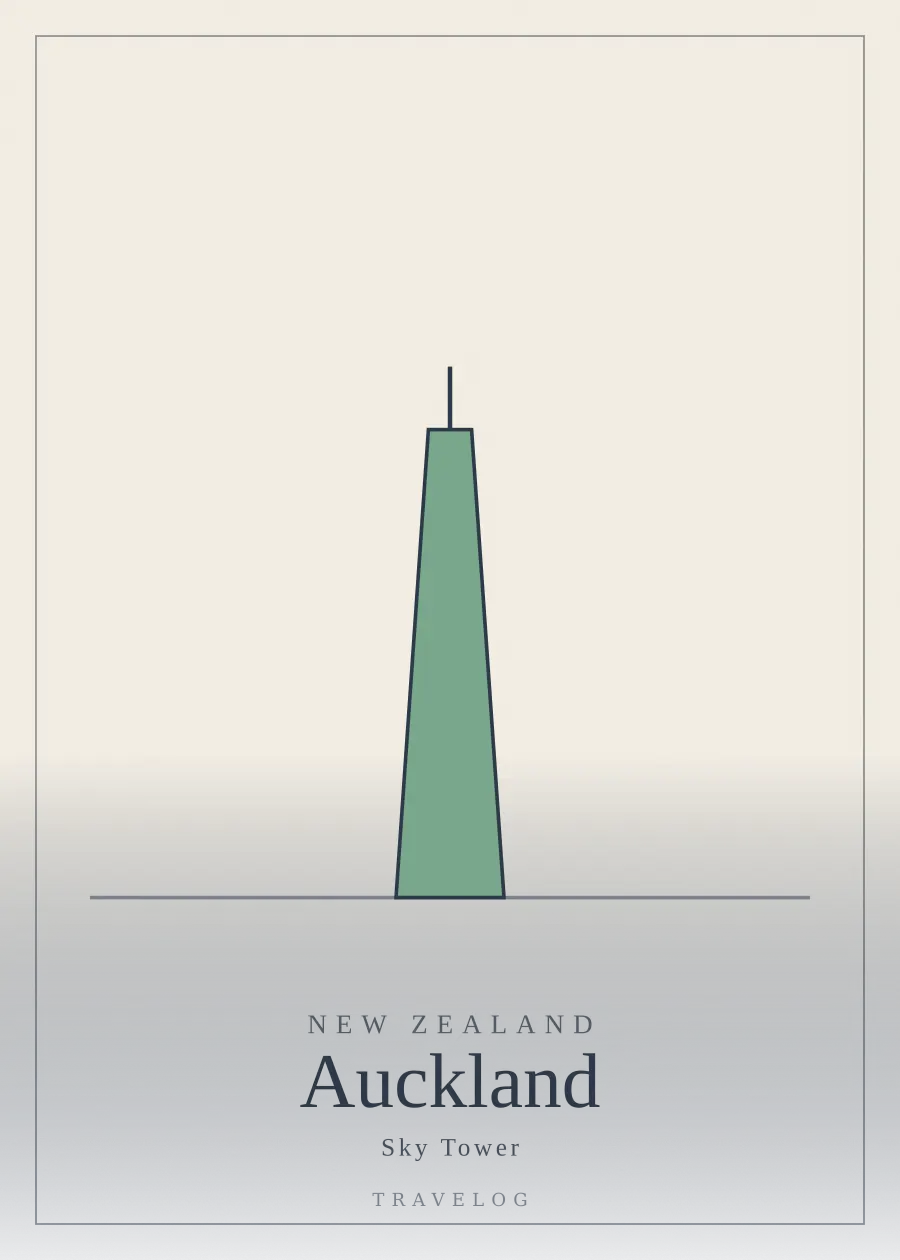
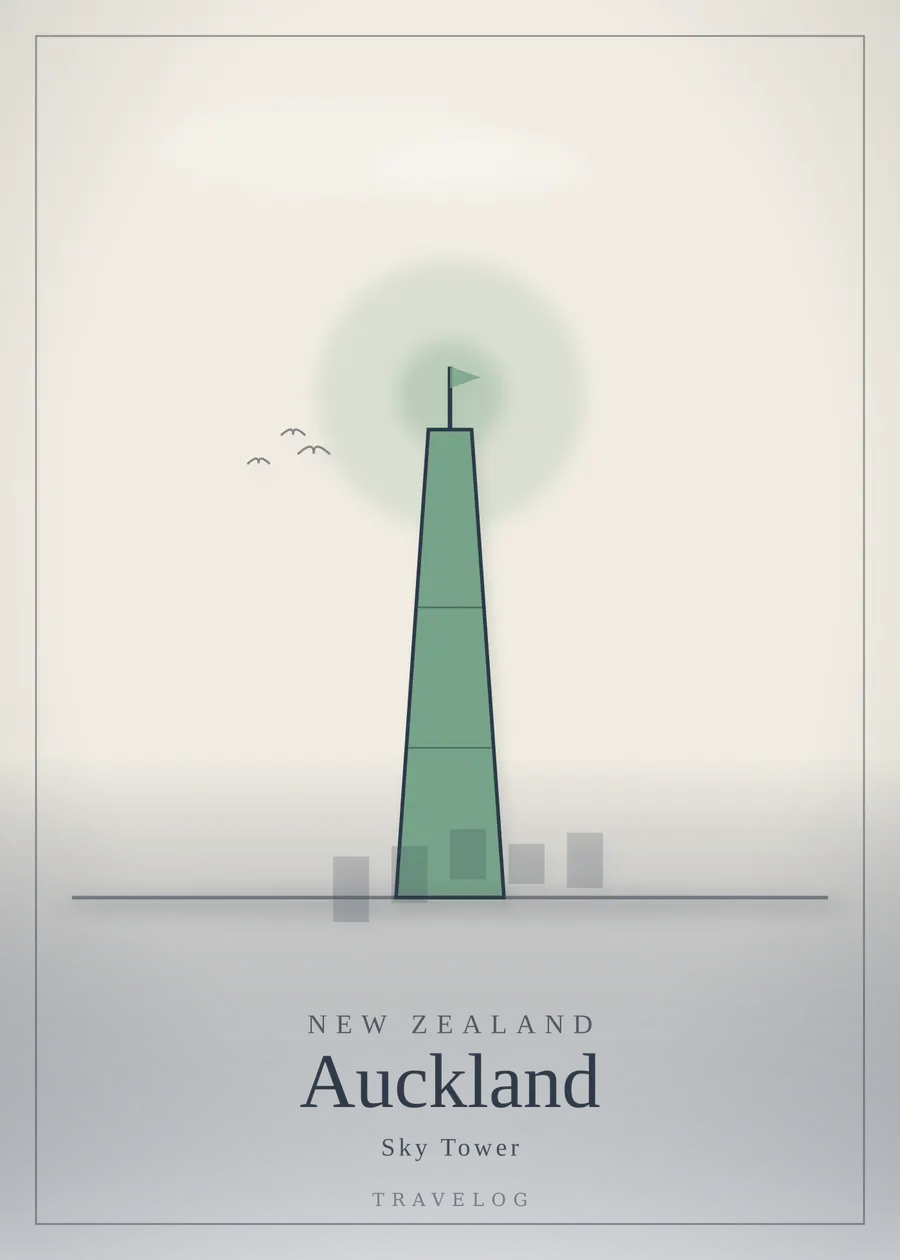
Improve placeholder poster art: richer illustration, faster generation
Upgrades the procedural poster art from flat geometric shapes to a
proper editorial illustration treatment — sky glow/clouds, birds,
water ripples, ground shadow, a single watercolor "bleed" pass behind
the crisp linework, and per-motif secondary detail (pedestrians,
lanterns, palm accents, window lighting, etc.) instead of generic bars.

Also fixes a real performance bug: re-rasterizing the same blurred SVG
a second time at 4000px for the "original" file made per-poster
generation take ~50s+ (the Gaussian blur filters scale non-linearly
with rasterization density). Now the vector art is rasterized once at
a moderate size and the high-resolution "original" is a fast Lanczos
upscale of that raster — ~4s/poster instead of ~50s+, with no visible
quality loss for this illustration style.

(AI image generation was attempted for a higher-fidelity upgrade, but
the sandbox's network policy blocks the generation service's asset
CDN, so the generated files couldn't be pulled into the repo — this
commit is the achievable alternative within that constraint.)

diff --git a/scripts/lib/svg-poster.ts b/scripts/lib/svg-poster.ts
@@ -22,21 +22,69 @@ function hashSeed(value: string): number {
     return h;
 }
 
+function sky(rand: () => number, accent: string, sunY: number): string {
+    let clouds = '';
+    for (let i = 0; i < 2; i++) {
+        const cx = 220 + rand() * 560;
+        const cy = 140 + rand() * 260;
+        const w = 90 + rand() * 110;
+        clouds += `<ellipse cx="${cx}" cy="${cy}" rx="${w}" ry="${w * 0.28}" fill="#ffffff" opacity="${0.18 + rand() * 0.15}" filter="url(#soften)" />`;
+    }
+    return `
+        <circle cx="${WIDTH / 2}" cy="${sunY}" r="150" fill="${accent}" opacity="0.16" filter="url(#soften)" />
+        <circle cx="${WIDTH / 2}" cy="${sunY}" r="60" fill="${accent}" opacity="0.28" filter="url(#soften)" />
+        ${clouds}
+    `;
+}
+
+function birds(rand: () => number, ink: string, count: number, top: number, bottom: number): string {
+    let out = '';
+    for (let i = 0; i < count; i++) {
+        const x = 220 + rand() * 560;
+        const y = top + rand() * (bottom - top);
+        const s = 10 + rand() * 8;
+        out += `<path d="M ${x - s} ${y} Q ${x} ${y - s * 0.9} ${x} ${y} Q ${x} ${y - s * 0.9} ${x + s} ${y}" fill="none" stroke="${ink}" stroke-width="2.5" opacity="0.55" stroke-linecap="round" />`;
+    }
+    return out;
+}
+
+function groundShadow(baseY: number, ink: string): string {
+    return `<ellipse cx="${WIDTH / 2}" cy="${baseY + 6}" rx="440" ry="16" fill="${ink}" opacity="0.12" filter="url(#soften)" />`;
+}
+
 function motifPaths(motif: PosterRecord['motif'], rand: () => number, ink: string, accent: string): string {
     const cx = WIDTH / 2;
     const baseY = 980 + rand() * 40;
+    let out = '';
 
     switch (motif) {
         case 'bridge': {
             const spanY = baseY - 260;
             const towerH = 300;
-            return `
-                <path d="M ${cx - 340} ${baseY} Q ${cx} ${spanY} ${cx + 340} ${baseY}" fill="none" stroke="${accent}" stroke-width="10" />
+            const mainArc = `M ${cx - 340} ${baseY} Q ${cx} ${spanY} ${cx + 340} ${baseY}`;
+            out += sky(rand, accent, baseY - 420);
+            out += `
+                <path d="M ${cx - 420} ${baseY + 30} Q ${cx - 200} ${baseY + 10} ${cx} ${baseY + 30} T ${cx + 420} ${baseY + 30}" fill="none" stroke="${ink}" stroke-width="2.5" opacity="0.3" />
+                <path d="M ${cx - 420} ${baseY + 55} Q ${cx - 200} ${baseY + 35} ${cx} ${baseY + 55} T ${cx + 420} ${baseY + 55}" fill="none" stroke="${ink}" stroke-width="2" opacity="0.2" />
+                <path d="${mainArc}" fill="none" stroke="${accent}" stroke-width="10" />
                 <path d="M ${cx - 260} ${baseY} Q ${cx} ${spanY + 90} ${cx + 260} ${baseY}" fill="none" stroke="${ink}" stroke-width="4" opacity="0.6" />
+                ${Array.from({ length: 9 })
+                    .map((_, i) => {
+                        const t = (i + 1) / 10;
+                        const x = cx - 340 + t * 680;
+                        const archY = spanY + (baseY - spanY) * (1 - Math.sin(Math.PI * t));
+                        return `<line x1="${x}" y1="${archY}" x2="${x}" y2="${baseY}" stroke="${ink}" stroke-width="1.5" opacity="0.35" />`;
+                    })
+                    .join('')}
                 <rect x="${cx - 180}" y="${baseY - towerH}" width="18" height="${towerH}" fill="${ink}" />
                 <rect x="${cx + 162}" y="${baseY - towerH}" width="18" height="${towerH}" fill="${ink}" />
-                <line x1="${cx - 340}" y1="${baseY}" x2="${cx + 340}" y2="${baseY}" stroke="${ink}" stroke-width="6" />
+                <path d="M ${cx - 180} ${baseY - towerH} L ${cx - 171} ${baseY - towerH - 26} L ${cx - 162} ${baseY - towerH}" fill="${ink}" opacity="0.8" />
+                <path d="M ${cx + 162} ${baseY - towerH} L ${cx + 171} ${baseY - towerH - 26} L ${cx + 180} ${baseY - towerH}" fill="${ink}" opacity="0.8" />
+                <line x1="${cx - 420}" y1="${baseY}" x2="${cx + 420}" y2="${baseY}" stroke="${ink}" stroke-width="6" />
             `;
+            out += birds(rand, ink, 4, baseY - 500, baseY - 380);
+            out += groundShadow(baseY, ink);
+            break;
         }
         case 'mountain': {
             const peaks = [0.55, 0.9, 0.68, 1, 0.5];
@@ -46,21 +94,36 @@ function motifPaths(motif: PosterRecord['motif'], rand: () => number, ink: strin
                 d += ` L ${x} ${baseY - 360 * p}`;
             });
             d += ` L ${cx + 400} ${baseY}`;
-            return `
+            out += sky(rand, accent, baseY - 480);
+            out += `
                 <path d="${d} Z" fill="${accent}" opacity="0.85" />
                 <path d="${d}" fill="none" stroke="${ink}" stroke-width="5" />
+                <path d="M ${cx - 210} ${baseY - 220} L ${cx - 170} ${baseY - 260} L ${cx - 130} ${baseY - 220}" fill="none" stroke="${ink}" stroke-width="3" opacity="0.5" />
+                <path d="M ${cx + 40} ${baseY - 330} L ${cx + 90} ${baseY - 380} L ${cx + 140} ${baseY - 330}" fill="none" stroke="${ink}" stroke-width="3" opacity="0.5" />
             `;
+            out += birds(rand, ink, 3, baseY - 460, baseY - 380);
+            out += groundShadow(baseY, ink);
+            break;
         }
         case 'tower': {
             const h = 520;
-            return `
+            out += sky(rand, accent, baseY - h - 40);
+            out += `
                 <polygon points="${cx - 60},${baseY} ${cx - 24},${baseY - h} ${cx + 24},${baseY - h} ${cx + 60},${baseY}" fill="${accent}" />
                 <polygon points="${cx - 60},${baseY} ${cx - 24},${baseY - h} ${cx + 24},${baseY - h} ${cx + 60},${baseY}" fill="none" stroke="${ink}" stroke-width="4" />
+                <line x1="${cx - 46}" y1="${baseY - h * 0.32}" x2="${cx + 46}" y2="${baseY - h * 0.32}" stroke="${ink}" stroke-width="2" opacity="0.5" />
+                <line x1="${cx - 36}" y1="${baseY - h * 0.62}" x2="${cx + 36}" y2="${baseY - h * 0.62}" stroke="${ink}" stroke-width="2" opacity="0.5" />
                 <line x1="${cx}" y1="${baseY - h}" x2="${cx}" y2="${baseY - h - 70}" stroke="${ink}" stroke-width="5" />
-                <line x1="${cx - 400}" y1="${baseY}" x2="${cx + 400}" y2="${baseY}" stroke="${ink}" stroke-width="4" opacity="0.5" />
+                <path d="M ${cx} ${baseY - h - 70} L ${cx + 34} ${baseY - h - 58} L ${cx} ${baseY - h - 46} Z" fill="${accent}" opacity="0.8" />
+                ${Array.from({ length: 5 }).map((_, i) => `<rect x="${cx - 130 + i * 65}" y="${baseY - 40 - rand() * 40}" width="40" height="${40 + rand() * 40}" fill="${ink}" opacity="0.18" />`).join('')}
+                <line x1="${cx - 420}" y1="${baseY}" x2="${cx + 420}" y2="${baseY}" stroke="${ink}" stroke-width="4" opacity="0.5" />
             `;
+            out += birds(rand, ink, 3, baseY - h - 30, baseY - h + 60);
+            out += groundShadow(baseY, ink);
+            break;
         }
         case 'shrine': {
+            out += sky(rand, accent, baseY - 460);
             let gates = '';
             for (let i = 0; i < 4; i++) {
                 const y = baseY - i * 90;
@@ -68,38 +131,76 @@ function motifPaths(motif: PosterRecord['motif'], rand: () => number, ink: strin
                 gates += `
                     <line x1="${cx - w / 2}" y1="${y}" x2="${cx - w / 2}" y2="${y - 130}" stroke="${accent}" stroke-width="14" />
                     <line x1="${cx + w / 2}" y1="${y}" x2="${cx + w / 2}" y2="${y - 130}" stroke="${accent}" stroke-width="14" />
-                    <line x1="${cx - w / 2 - 14}" y1="${y - 130}" x2="${cx + w / 2 + 14}" y2="${y - 130}" stroke="${ink}" stroke-width="10" />
+                    <line x1="${cx - w / 2 - 18}" y1="${y - 130}" x2="${cx + w / 2 + 18}" y2="${y - 130}" stroke="${ink}" stroke-width="11" />
+                    <line x1="${cx - w / 2 - 10}" y1="${y - 110}" x2="${cx + w / 2 + 10}" y2="${y - 110}" stroke="${ink}" stroke-width="6" />
                 `;
             }
-            return gates;
+            out += gates;
+            for (const side of [-1, 1]) {
+                const tx = cx + side * 440;
+                out += `<path d="M ${tx} ${baseY} L ${tx - 30} ${baseY - 260} L ${tx + 40} ${baseY - 300} L ${tx + 10} ${baseY - 130} Z" fill="${ink}" opacity="0.22" />`;
+            }
+            out += groundShadow(baseY, ink);
+            break;
         }
         case 'dome': {
-            return `
-                <path d="M ${cx - 260} ${baseY} A 260 260 0 0 1 ${cx + 260} ${baseY}" fill="${accent}" />
-                <path d="M ${cx - 260} ${baseY} A 260 260 0 0 1 ${cx + 260} ${baseY}" fill="none" stroke="${ink}" stroke-width="5" />
+            out += sky(rand, accent, baseY - 380);
+            const domeArc = `M ${cx - 260} ${baseY} A 260 260 0 0 1 ${cx + 260} ${baseY}`;
+            out += `
+                <path d="${domeArc}" fill="${accent}" />
+                <path d="${domeArc}" fill="none" stroke="${ink}" stroke-width="5" />
+                <path d="M ${cx - 180} ${baseY} A 180 180 0 0 1 ${cx + 180} ${baseY}" fill="none" stroke="${ink}" stroke-width="2" opacity="0.4" />
+                <line x1="${cx}" y1="${baseY - 260}" x2="${cx}" y2="${baseY - 300}" stroke="${ink}" stroke-width="4" />
+                <rect x="${cx - 330}" y="${baseY - 90}" width="70" height="90" fill="${ink}" opacity="0.2" />
+                <rect x="${cx + 260}" y="${baseY - 120}" width="70" height="120" fill="${ink}" opacity="0.2" />
                 <line x1="${cx - 300}" y1="${baseY}" x2="${cx + 300}" y2="${baseY}" stroke="${ink}" stroke-width="6" />
             `;
+            out += birds(rand, ink, 3, baseY - 400, baseY - 320);
+            out += groundShadow(baseY, ink);
+            break;
         }
         case 'canal': {
+            out += sky(rand, accent, baseY - 420);
             let d = `M ${cx - 420} ${baseY}`;
             for (let i = 1; i <= 6; i++) {
                 d += ` Q ${cx - 420 + i * 140 - 70} ${baseY + (i % 2 === 0 ? 40 : -40)} ${cx - 420 + i * 140} ${baseY}`;
             }
-            return `
-                <path d="${d}" fill="none" stroke="${accent}" stroke-width="10" />
+            let d2 = `M ${cx - 420} ${baseY + 26}`;
+            for (let i = 1; i <= 6; i++) {
+                d2 += ` Q ${cx - 420 + i * 140 - 70} ${baseY + 26 + (i % 2 === 0 ? 30 : -30)} ${cx - 420 + i * 140} ${baseY + 26}`;
+            }
+            out += `
                 <rect x="${cx - 380}" y="${baseY - 220}" width="140" height="220" fill="${ink}" opacity="0.7" />
                 <rect x="${cx - 200}" y="${baseY - 300}" width="120" height="300" fill="${ink}" opacity="0.55" />
                 <rect x="${cx + 60}" y="${baseY - 260}" width="150" height="260" fill="${ink}" opacity="0.65" />
+                <rect x="${cx - 380}" y="${baseY - 220}" width="140" height="16" fill="${accent}" opacity="0.7" />
+                <rect x="${cx - 200}" y="${baseY - 300}" width="120" height="16" fill="${accent}" opacity="0.6" />
+                <rect x="${cx + 60}" y="${baseY - 260}" width="150" height="16" fill="${accent}" opacity="0.6" />
+                <path d="${d}" fill="none" stroke="${accent}" stroke-width="10" />
+                <path d="${d2}" fill="none" stroke="${ink}" stroke-width="2" opacity="0.25" />
+                <path d="M ${cx - 30} ${baseY + 6} Q ${cx} ${baseY - 14} ${cx + 60} ${baseY + 4} L ${cx + 50} ${baseY + 14} Q ${cx + 10} ${baseY + 4} ${cx - 20} ${baseY + 14} Z" fill="${ink}" opacity="0.5" />
             `;
+            out += groundShadow(baseY, ink);
+            break;
         }
         case 'pyramid': {
-            return `
-                <polygon points="${cx - 280},${baseY} ${cx},${baseY - 380} ${cx + 280},${baseY}" fill="${accent}" />
+            out += sky(rand, accent, baseY - 420);
+            const p1 = `<polygon points="${cx - 280},${baseY} ${cx},${baseY - 380} ${cx + 280},${baseY}" fill="${accent}" />`;
+            out += `
+                ${p1}
                 <polygon points="${cx - 280},${baseY} ${cx},${baseY - 380} ${cx + 280},${baseY}" fill="none" stroke="${ink}" stroke-width="5" />
+                <line x1="${cx}" y1="${baseY - 380}" x2="${cx - 60}" y2="${baseY}" stroke="${ink}" stroke-width="2" opacity="0.35" />
                 <polygon points="${cx + 320},${baseY} ${cx + 420},${baseY - 160} ${cx + 520},${baseY}" fill="${accent}" opacity="0.7" />
+                <polygon points="${cx + 320},${baseY} ${cx + 420},${baseY - 160} ${cx + 520},${baseY}" fill="none" stroke="${ink}" stroke-width="3" opacity="0.5" />
+                <path d="M ${cx - 450} ${baseY} Q ${cx - 470} ${baseY - 60} ${cx - 430} ${baseY - 130}" fill="none" stroke="${ink}" stroke-width="5" opacity="0.55" stroke-linecap="round" />
+                <path d="M ${cx - 430} ${baseY - 30} L ${cx - 460} ${baseY - 70}" stroke="${ink}" stroke-width="4" opacity="0.5" stroke-linecap="round" />
+                <path d="M ${cx - 430} ${baseY - 55} L ${cx - 400} ${baseY - 95}" stroke="${ink}" stroke-width="4" opacity="0.5" stroke-linecap="round" />
             `;
+            out += groundShadow(baseY, ink);
+            break;
         }
         case 'cliff': {
+            out += sky(rand, accent, baseY - 380);
             let d = `M ${cx - 420} ${baseY}`;
             for (let i = 0; i < 6; i++) {
                 const x = cx - 420 + i * 140 + rand() * 30;
@@ -107,36 +208,66 @@ function motifPaths(motif: PosterRecord['motif'], rand: () => number, ink: strin
                 d += ` L ${x} ${y}`;
             }
             d += ` L ${cx + 420} ${baseY} Z`;
-            return `<path d="${d}" fill="${accent}" opacity="0.85" /><path d="${d}" fill="none" stroke="${ink}" stroke-width="4" />`;
+            out += `<path d="${d}" fill="${accent}" opacity="0.85" /><path d="${d}" fill="none" stroke="${ink}" stroke-width="4" />`;
+            for (let i = 0; i < 4; i++) {
+                const bx = cx - 260 + i * 170 + rand() * 30;
+                out += `<rect x="${bx}" y="${baseY - 160 - rand() * 60}" width="18" height="${140 + rand() * 60}" fill="${ink}" opacity="0.28" /><polygon points="${bx - 6},${baseY - 160 - rand() * 60} ${bx + 9},${baseY - 210} ${bx + 24},${baseY - 160}" fill="${accent}" opacity="0.4" />`;
+            }
+            out += birds(rand, ink, 3, baseY - 400, baseY - 320);
+            out += groundShadow(baseY, ink);
+            break;
         }
         case 'skyline': {
+            out += sky(rand, accent, baseY - 440);
             let bars = '';
             let x = cx - 420;
             while (x < cx + 420) {
                 const w = 60 + rand() * 60;
                 const h = 160 + rand() * 320;
-                bars += `<rect x="${x}" y="${baseY - h}" width="${w - 8}" height="${h}" fill="${ink}" opacity="${0.5 + rand() * 0.3}" />`;
+                const winRows = Math.floor(h / 34);
+                let windows = '';
+                for (let r = 0; r < winRows; r++) {
+                    if (rand() > 0.4) windows += `<rect x="${x + 8}" y="${baseY - h + 10 + r * 34}" width="${w - 24}" height="14" fill="${accent}" opacity="${0.35 + rand() * 0.3}" />`;
+                }
+                bars += `<rect x="${x}" y="${baseY - h}" width="${w - 8}" height="${h}" fill="${ink}" opacity="${0.55 + rand() * 0.25}" />${windows}`;
                 x += w;
             }
-            return bars;
+            out += bars;
+            out += birds(rand, ink, 3, baseY - 460, baseY - 380);
+            out += groundShadow(baseY, ink);
+            break;
         }
         case 'statue': {
-            return `
+            out += sky(rand, accent, baseY - 420);
+            out += `
+                <path d="M ${cx - 300} ${baseY} Q ${cx - 150} ${baseY - 50} ${cx} ${baseY - 20} Q ${cx + 150} ${baseY - 50} ${cx + 300} ${baseY}" fill="${accent}" opacity="0.35" />
                 <rect x="${cx - 14}" y="${baseY - 340}" width="28" height="240" fill="${ink}" />
                 <line x1="${cx - 14}" y1="${baseY - 300}" x2="${cx - 180}" y2="${baseY - 220}" stroke="${ink}" stroke-width="16" stroke-linecap="round" />
                 <line x1="${cx + 14}" y1="${baseY - 300}" x2="${cx + 180}" y2="${baseY - 220}" stroke="${ink}" stroke-width="16" stroke-linecap="round" />
                 <circle cx="${cx}" cy="${baseY - 370}" r="30" fill="${ink}" />
                 <path d="M ${cx - 260} ${baseY} Q ${cx} ${baseY - 90} ${cx + 260} ${baseY}" fill="${accent}" opacity="0.6" />
             `;
+            out += birds(rand, ink, 3, baseY - 440, baseY - 360);
+            out += groundShadow(baseY, ink);
+            break;
         }
         case 'plaza': {
+            out += sky(rand, accent, baseY - 380);
             let tiles = '';
             for (let i = -3; i <= 3; i++) {
                 tiles += `<line x1="${cx + i * 90}" y1="${baseY - 260}" x2="${cx + i * 90 + 160}" y2="${baseY}" stroke="${accent}" stroke-width="3" opacity="0.5" />`;
             }
-            return `${tiles}<line x1="${cx - 420}" y1="${baseY}" x2="${cx + 420}" y2="${baseY}" stroke="${ink}" stroke-width="6" />`;
+            out += tiles;
+            for (let i = 0; i < 5; i++) {
+                const px = cx - 220 + i * 110 + rand() * 40;
+                out += `<ellipse cx="${px}" cy="${baseY - 6}" rx="7" ry="3" fill="${ink}" opacity="0.4" /><rect x="${px - 6}" y="${baseY - 62}" width="12" height="58" rx="4" fill="${ink}" opacity="0.55" /><circle cx="${px}" cy="${baseY - 70}" r="9" fill="${ink}" opacity="0.55" />`;
+            }
+            out += `<line x1="${cx - 420}" y1="${baseY}" x2="${cx + 420}" y2="${baseY}" stroke="${ink}" stroke-width="6" />`;
+            out += groundShadow(baseY, ink);
+            break;
         }
         case 'crossing': {
+            out += sky(rand, accent, baseY - 420);
             let lines = '';
             for (let i = 0; i < 8; i++) {
                 const angle = (Math.PI / 8) * i - Math.PI / 2;
@@ -144,11 +275,24 @@ function motifPaths(motif: PosterRecord['motif'], rand: () => number, ink: strin
                 const y2 = baseY - 40 + Math.sin(angle) * 260;
                 lines += `<line x1="${cx}" y1="${baseY - 40}" x2="${x2}" y2="${y2}" stroke="${accent}" stroke-width="4" opacity="0.55" />`;
             }
-            return lines;
+            out += lines;
+            for (let i = 0; i < 6; i++) {
+                const px = cx - 260 + i * 100 + rand() * 40;
+                const py = baseY - 20 + rand() * 40;
+                out += `<circle cx="${px}" cy="${py - 30}" r="7" fill="${ink}" opacity="0.6" /><rect x="${px - 6}" y="${py - 22}" width="12" height="26" rx="4" fill="${ink}" opacity="0.6" />`;
+            }
+            for (let i = 0; i < 3; i++) {
+                const bx = cx - 380 + i * 260 + rand() * 40;
+                out += `<rect x="${bx}" y="${baseY - 300 - rand() * 100}" width="90" height="${300 + rand() * 100}" fill="${ink}" opacity="0.2" />`;
+            }
+            out += groundShadow(baseY, ink);
+            break;
         }
         default:
-            return '';
+            break;
     }
+
+    return out;
 }
 
 export function buildPosterSVG(record: PosterRecord): string {
@@ -162,7 +306,7 @@ export function buildPosterSVG(record: PosterRecord): string {
         <linearGradient id="wash" x1="0" y1="0" x2="0" y2="1">
             <stop offset="0%" stop-color="${light}" />
             <stop offset="60%" stop-color="${light}" />
-            <stop offset="100%" stop-color="${dark}" stop-opacity="0.08" />
+            <stop offset="100%" stop-color="${dark}" stop-opacity="0.1" />
         </linearGradient>
         <filter id="grain" x="0" y="0" width="100%" height="100%">
             <feTurbulence type="fractalNoise" baseFrequency="0.9" numOctaves="2" stitchTiles="stitch" result="noise" />
@@ -171,12 +315,26 @@ export function buildPosterSVG(record: PosterRecord): string {
         <pattern id="grainTile" width="64" height="64" patternUnits="userSpaceOnUse">
             <rect width="64" height="64" filter="url(#grain)" />
         </pattern>
+        <filter id="soften" x="-60%" y="-60%" width="220%" height="220%">
+            <feGaussianBlur stdDeviation="10" />
+        </filter>
+        <filter id="bleed" x="-20%" y="-20%" width="140%" height="140%">
+            <feGaussianBlur stdDeviation="7" />
+        </filter>
+        <radialGradient id="vignette" cx="50%" cy="42%" r="72%">
+            <stop offset="60%" stop-color="${dark}" stop-opacity="0" />
+            <stop offset="100%" stop-color="${dark}" stop-opacity="0.16" />
+        </radialGradient>
     </defs>
 
     <rect width="${WIDTH}" height="${HEIGHT}" fill="url(#wash)" />
-    <rect width="${WIDTH}" height="${HEIGHT}" fill="url(#grainTile)" />
 
+    <!-- Single whole-motif watercolor bleed pass (one filter region, not one per shape). -->
+    <g transform="translate(6 10)" filter="url(#bleed)" opacity="0.22">${motif}</g>
     <g>${motif}</g>
+
+    <rect width="${WIDTH}" height="${HEIGHT}" fill="url(#vignette)" />
+    <rect width="${WIDTH}" height="${HEIGHT}" fill="url(#grainTile)" />
 
     <rect x="40" y="40" width="${WIDTH - 80}" height="${HEIGHT - 80}" fill="none" stroke="${dark}" stroke-width="2" opacity="0.5" />
 

diff --git a/scripts/generate-poster-art.ts b/scripts/generate-poster-art.ts
@@ -20,10 +20,19 @@ async function main() {
         const posterDir = path.join(PUBLIC_DIR, record.slug);
         await mkdir(posterDir, { recursive: true });
 
-        // Public preview: ~900px wide, compressed webp. Density is tuned so
-        // librsvg rasterizes close to the target size directly (cheap) rather
-        // than rendering oversized and downscaling.
-        await sharp(svgBuffer, { density: 96 * (900 / 1000) })
+        // Rasterize the vector art ONCE at a moderate size. The watercolor
+        // blur filters make librsvg rasterization cost blow up non-linearly
+        // with density, so we deliberately avoid re-rasterizing the same SVG
+        // a second time at 4000px — instead the "original" is an upscale of
+        // this base raster, which is fast and, for illustration-style art,
+        // visually indistinguishable from re-rendering the vector directly.
+        const baseRaster = await sharp(svgBuffer, { density: 96 * (1400 / 1000) })
+            .resize({ width: 1400 })
+            .png()
+            .toBuffer();
+
+        // Public preview: ~900px wide, compressed webp.
+        await sharp(baseRaster)
             .resize({ width: 900 })
             .webp({ quality: 78 })
             .toFile(path.join(posterDir, 'preview.webp'));
@@ -33,8 +42,8 @@ async function main() {
         // access) uploads this into the private Supabase Storage bucket.
         const originalDir = path.join(SEED_ASSETS_DIR, record.slug);
         await mkdir(originalDir, { recursive: true });
-        await sharp(svgBuffer, { density: 96 * (4000 / 1000) })
-            .resize({ width: 4000 })
+        await sharp(baseRaster)
+            .resize({ width: 4000, kernel: 'lanczos3' })
             .jpeg({ quality: 92 })
             .toFile(path.join(originalDir, 'original.jpg'));
 
